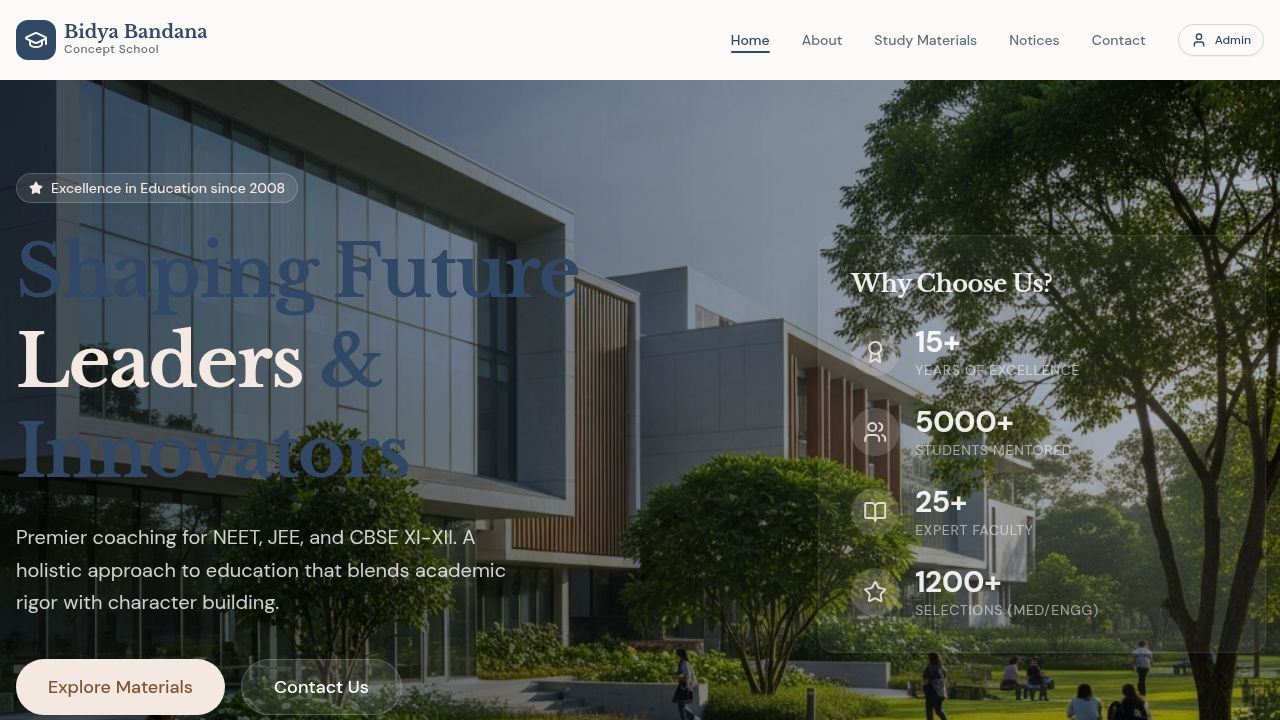
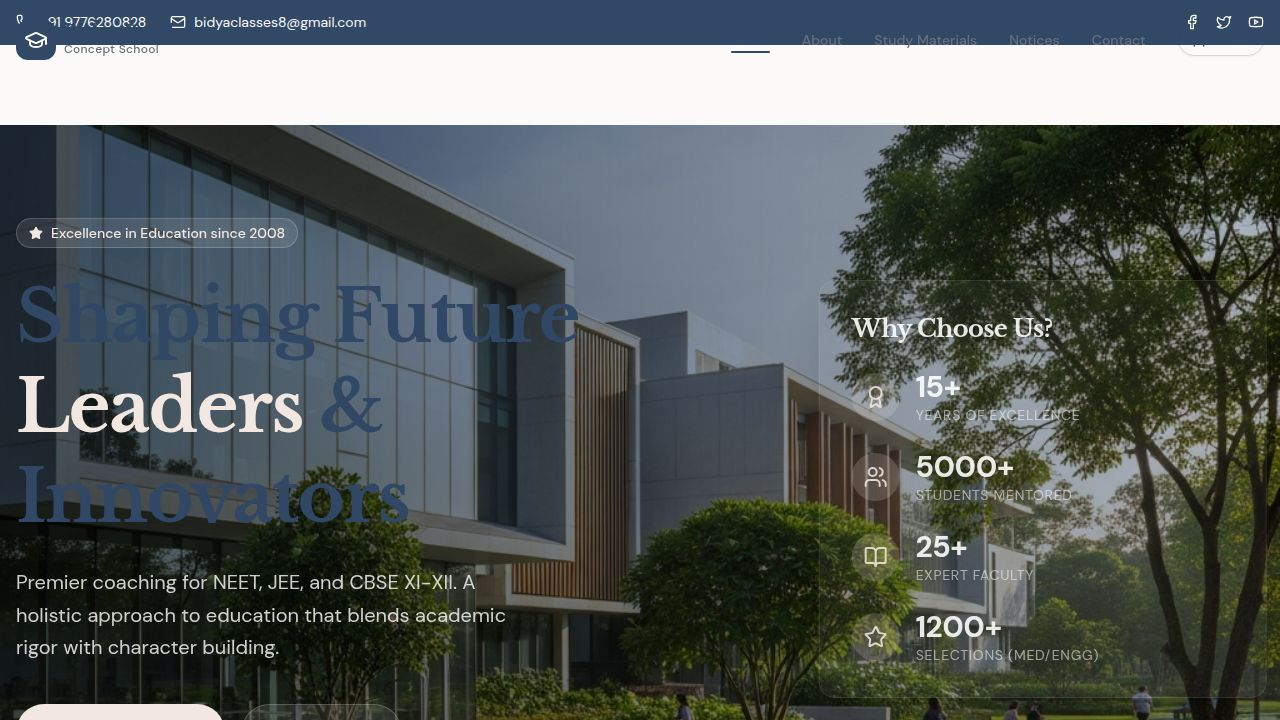
Add a contact bar at the top and expand the footer design
Introduces a new `TopBar` component for contact information and social links, and refactors the `Footer` component to a larger size with a four-column layout, utilizing `lucide-react` icons and Tailwind CSS for styling.

Replit-Commit-Author: Agent
Replit-Commit-Session-Id: 939a69fd-89b6-48d9-94b3-6344ef9d2f4a
Replit-Commit-Checkpoint-Type: full_checkpoint
Replit-Commit-Event-Id: c098aa55-aaec-4ebe-9c9d-d4de03043a59
Replit-Commit-Screenshot-Url: https://storage.googleapis.com/screenshot-production-us-central1/c2829a83-cf61-4872-bc26-ba2ae6485d57/939a69fd-89b6-48d9-94b3-6344ef9d2f4a/3okcnhn
Replit-Helium-Checkpoint-Created: true

diff --git a/client/src/components/layout/Footer.tsx b/client/src/components/layout/Footer.tsx
@@ -1,52 +1,53 @@
-import { GraduationCap, MapPin, Phone, Mail, Facebook, Twitter, Instagram, Linkedin } from "lucide-react";
+import { GraduationCap, MapPin, Phone, Mail, Facebook, Twitter, Instagram, Linkedin, ChevronRight } from "lucide-react";
 import { Link } from "wouter";
 import { CONTACT_INFO } from "@/data/mockData";
 
 export function Footer() {
   return (
-    <footer className="bg-primary text-primary-foreground pt-16 pb-8">
-      <div className="container mx-auto px-4">
-        <div className="grid grid-cols-1 md:grid-cols-2 lg:grid-cols-4 gap-12 mb-12">
-          {/* Brand */}
-          <div className="space-y-4">
-            <div className="flex items-center gap-2">
-              <div className="bg-white/10 p-2 rounded-lg">
-                <GraduationCap size={24} className="text-white" />
+    <footer className="bg-primary text-primary-foreground">
+      <div className="container mx-auto px-4 py-20">
+        <div className="grid grid-cols-1 md:grid-cols-4 gap-16">
+          
+          {/* Brand Column */}
+          <div className="space-y-6 flex flex-col">
+            <div className="flex items-center justify-center md:justify-start gap-3">
+              <div className="bg-white/10 p-3 rounded-lg border border-white/10">
+                <GraduationCap size={40} className="text-white" />
               </div>
               <div className="flex flex-col">
                 <span className="font-serif font-bold text-lg leading-none">
-                  Bidya Bandana
+                  BNC
                 </span>
-                <span className="text-xs text-white/60 font-medium tracking-wide">
-                  Concept School
+                <span className="text-xs text-white/50 font-medium tracking-widest">
+                  School
                 </span>
               </div>
             </div>
-            <p className="text-white/70 text-sm leading-relaxed">
-              Empowering students with knowledge, discipline, and values. 
-              Premier coaching for NEET, JEE, and CBSE XI-XII.
+            <p className="text-white/60 text-sm leading-relaxed hidden md:block">
+              Empowering students with knowledge, discipline, and values.
             </p>
-            <div className="flex gap-4">
+            <div className="flex gap-4 justify-center md:justify-start pt-4">
               {[Facebook, Twitter, Instagram, Linkedin].map((Icon, i) => (
                 <a
                   key={i}
                   href="#"
-                  className="bg-white/10 hover:bg-white/20 p-2 rounded-full transition-colors text-white"
+                  className="bg-white/10 hover:bg-white/20 p-3 rounded-full transition-colors text-white"
                 >
-                  <Icon size={18} />
+                  <Icon size={16} />
                 </a>
               ))}
             </div>
           </div>
 
-          {/* Quick Links */}
+          {/* Explore Column */}
           <div>
-            <h3 className="font-serif font-bold text-lg mb-6">Quick Links</h3>
-            <ul className="space-y-3 text-sm text-white/70">
-              {["About Us", "Admissions", "Study Materials", "Notices", "Gallery", "Contact"].map((item) => (
+            <h3 className="font-serif font-bold text-xl mb-8 text-white">Explore</h3>
+            <ul className="space-y-4">
+              {["About Us", "Upcoming Events", "Blog & News", "FAQ Question", "Testimonial", "Privacy Policy"].map((item) => (
                 <li key={item}>
-                  <Link href={item === "Home" ? "/" : `/${item.toLowerCase().replace(" ", "-")}`}>
-                    <a className="hover:text-white transition-colors hover:translate-x-1 inline-block transform">
+                  <Link href={item === "Home" ? "/" : `/${item.toLowerCase().replace(/\s+/g, "-")}`}>
+                    <a className="flex items-center gap-2 text-white/70 hover:text-white transition-colors text-sm font-medium group">
+                      <ChevronRight size={16} className="group-hover:translate-x-1 transition-transform" />
                       {item}
                     </a>
                   </Link>
@@ -55,45 +56,56 @@ export function Footer() {
             </ul>
           </div>
 
-          {/* Contact Info */}
+          {/* Useful Links Column */}
           <div>
-            <h3 className="font-serif font-bold text-lg mb-6">Contact Us</h3>
-            <ul className="space-y-4 text-sm text-white/70">
-              <li className="flex items-start gap-3">
-                <MapPin size={18} className="mt-0.5 shrink-0 text-accent" />
-                <span>{CONTACT_INFO.address}</span>
-              </li>
-              <li className="flex items-center gap-3">
-                <Phone size={18} className="shrink-0 text-accent" />
-                <span>{CONTACT_INFO.phone}</span>
-              </li>
-              <li className="flex items-center gap-3">
-                <Mail size={18} className="shrink-0 text-accent" />
-                <span>{CONTACT_INFO.email}</span>
-              </li>
+            <h3 className="font-serif font-bold text-xl mb-8 text-white">Useful Links</h3>
+            <ul className="space-y-4">
+              {["Contact Us", "Pricing Plan", "Gallery", "Instructor", "Purchase Guide", "Support"].map((item) => (
+                <li key={item}>
+                  <a href="#" className="flex items-center gap-2 text-white/70 hover:text-white transition-colors text-sm font-medium group">
+                    <ChevronRight size={16} className="group-hover:translate-x-1 transition-transform" />
+                    {item}
+                  </a>
+                </li>
+              ))}
             </ul>
           </div>
 
-          {/* Newsletter (Visual Only) */}
+          {/* Contact Info Column */}
           <div>
-            <h3 className="font-serif font-bold text-lg mb-6">Newsletter</h3>
-            <p className="text-white/70 text-sm mb-4">
-              Subscribe to get updates on admissions and events.
-            </p>
-            <div className="flex gap-2">
-              <input
-                type="email"
-                placeholder="Your email"
-                className="bg-white/10 border border-white/20 rounded-md px-3 py-2 text-sm text-white placeholder:text-white/40 focus:outline-none focus:ring-1 focus:ring-accent w-full"
-              />
-              <button className="bg-accent text-accent-foreground px-4 py-2 rounded-md text-sm font-bold hover:bg-accent/90 transition-colors">
-                Join
-              </button>
+            <h3 className="font-serif font-bold text-xl mb-8 text-white">Contact Info</h3>
+            <div className="space-y-6">
+              <div className="flex items-start gap-3">
+                <MapPin size={20} className="mt-0.5 shrink-0 text-accent" />
+                <div className="flex-1">
+                  <p className="text-white/70 text-sm leading-relaxed">
+                    Durga Mandap, Near apejay school, Near Hill view residency, Khandagiri - Chandalka Rd. Ghatkia, Bhubaneswar
+                  </p>
+                </div>
+              </div>
+              <div className="space-y-3 ml-8">
+                <a href="tel:+919776280828" className="flex items-center gap-2 text-white/70 hover:text-white transition-colors text-sm font-medium">
+                  <Phone size={14} className="text-accent" />
+                  +91 9776-280-828
+                </a>
+                <a href="tel:+919776654605" className="flex items-center gap-2 text-white/70 hover:text-white transition-colors text-sm font-medium">
+                  <Phone size={14} className="text-accent" />
+                  +91 9776-654-605
+                </a>
+                <a href="mailto:bidyaclasses8@gmail.com" className="flex items-center gap-2 text-white/70 hover:text-white transition-colors text-sm font-medium">
+                  <Mail size={14} className="text-accent" />
+                  bidyaclasses8@gmail.com
+                </a>
+              </div>
             </div>
           </div>
-        </div>
 
-        <div className="border-t border-white/10 pt-8 flex flex-col md:flex-row justify-between items-center gap-4 text-xs text-white/40">
+        </div>
+      </div>
+
+      {/* Bottom Bar */}
+      <div className="border-t border-white/10 bg-primary/50">
+        <div className="container mx-auto px-4 py-6 flex flex-col sm:flex-row justify-between items-center gap-4 text-xs text-white/40">
           <p>© {new Date().getFullYear()} Bidya Bandana Concept School. All rights reserved.</p>
           <div className="flex gap-6">
             <a href="#" className="hover:text-white transition-colors">Privacy Policy</a>

diff --git a/client/src/App.tsx b/client/src/App.tsx
@@ -26,25 +26,25 @@ function Router() {
     <Switch>
       {/* Admin Routes */}
       <Route path="/admin/login" component={AdminLogin} />
-      
+
       <Route path="/admin/dashboard">
         <AdminLayout title="Dashboard">
           <AdminDashboard />
         </AdminLayout>
       </Route>
-      
+
       <Route path="/admin/materials">
         <AdminLayout title="Manage Study Materials">
           <ManageMaterials />
         </AdminLayout>
       </Route>
-      
+
       <Route path="/admin/categories">
         <AdminLayout title="Manage Categories">
           <ManageCategories />
         </AdminLayout>
       </Route>
-      
+
       <Route path="/admin/notices">
         <AdminLayout title="Manage Notices">
           <ManageNotices />
@@ -53,7 +53,9 @@ function Router() {
 
       <Route path="/admin/settings">
         <AdminLayout title="Settings">
-          <div className="text-muted-foreground p-4">Settings page placeholder</div>
+          <div className="text-muted-foreground p-4">
+            Settings page placeholder
+          </div>
         </AdminLayout>
       </Route>
 
@@ -63,25 +65,25 @@ function Router() {
           <Home />
         </Layout>
       </Route>
-      
+
       <Route path="/about">
         <Layout>
           <About />
         </Layout>
       </Route>
-      
+
       <Route path="/study-materials">
         <Layout>
           <StudyMaterials />
         </Layout>
       </Route>
-      
+
       <Route path="/notices">
         <Layout>
           <Notices />
         </Layout>
       </Route>
-      
+
       <Route path="/contact">
         <Layout>
           <Contact />

diff --git a/client/src/components/layout/TopBar.tsx b/client/src/components/layout/TopBar.tsx
@@ -1,0 +1,37 @@
+import { Phone, Mail, Facebook, Twitter, Youtube } from "lucide-react";
+
+export function TopBar() {
+  return (
+    <div className="bg-primary text-primary-foreground py-3 border-b border-primary">
+      <div className="container mx-auto px-4 flex flex-col sm:flex-row items-center justify-between gap-4 text-sm">
+        <div className="flex flex-col sm:flex-row items-center gap-6">
+          <a href="tel:+919776280828" className="flex items-center gap-2 hover:text-accent transition-colors">
+            <Phone size={16} />
+            <span>+91 9776280828</span>
+          </a>
+          <a href="mailto:bidyaclasses8@gmail.com" className="flex items-center gap-2 hover:text-accent transition-colors">
+            <Mail size={16} />
+            <span>bidyaclasses8@gmail.com</span>
+          </a>
+        </div>
+        <div className="flex items-center gap-4">
+          {[
+            { Icon: Facebook, href: "#" },
+            { Icon: Twitter, href: "#" },
+            { Icon: Youtube, href: "#" },
+          ].map(({ Icon, href }, i) => (
+            <a 
+              key={i}
+              href={href} 
+              className="hover:text-accent transition-colors"
+              target="_blank"
+              rel="noopener noreferrer"
+            >
+              <Icon size={16} />
+            </a>
+          ))}
+        </div>
+      </div>
+    </div>
+  );
+}

diff --git a/client/src/components/layout/Layout.tsx b/client/src/components/layout/Layout.tsx
@@ -1,4 +1,5 @@
 import { ReactNode } from "react";
+import { TopBar } from "./TopBar";
 import { Navbar } from "./Navbar";
 import { Footer } from "./Footer";
 
@@ -9,6 +10,7 @@ interface LayoutProps {
 export function Layout({ children }: LayoutProps) {
   return (
     <div className="min-h-screen flex flex-col bg-background font-sans text-foreground selection:bg-secondary selection:text-secondary-foreground">
+      <TopBar />
       <Navbar />
       <main className="flex-grow pt-20">
         {children}
